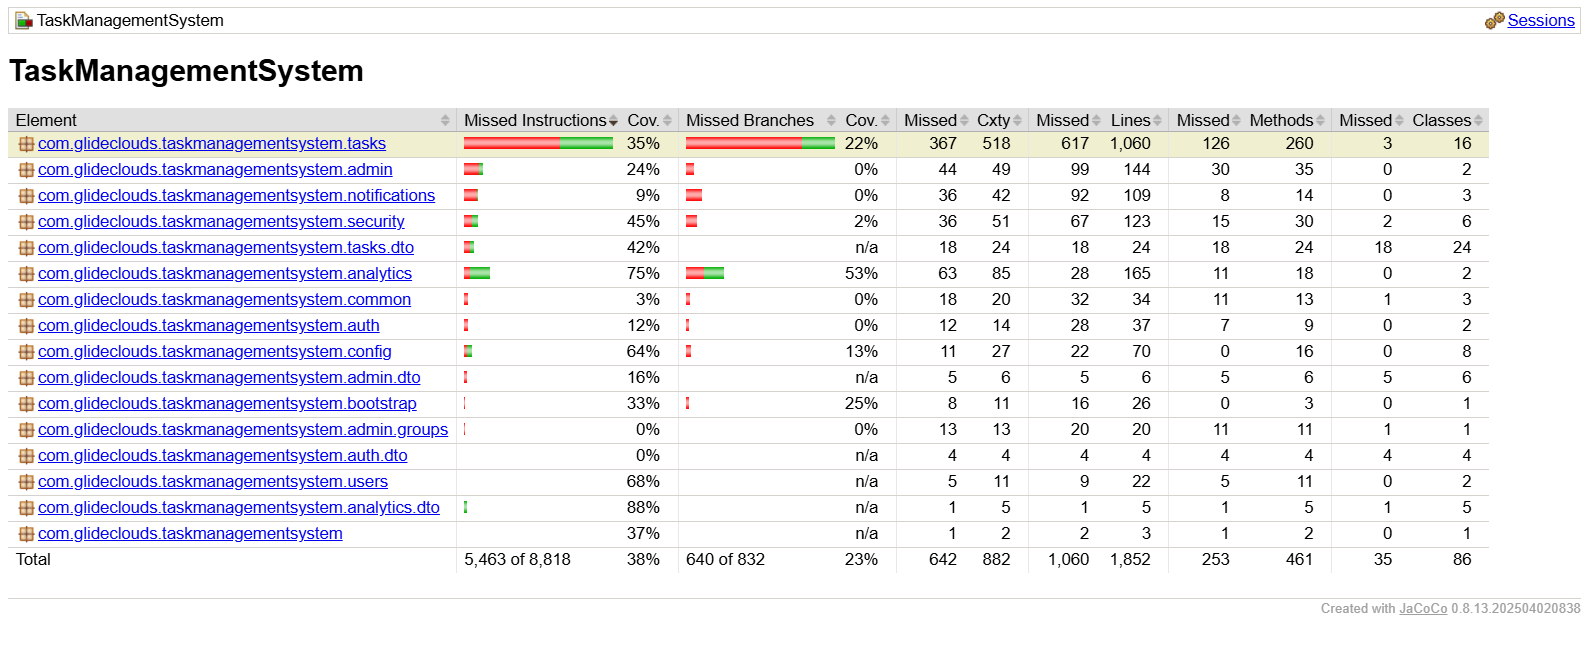
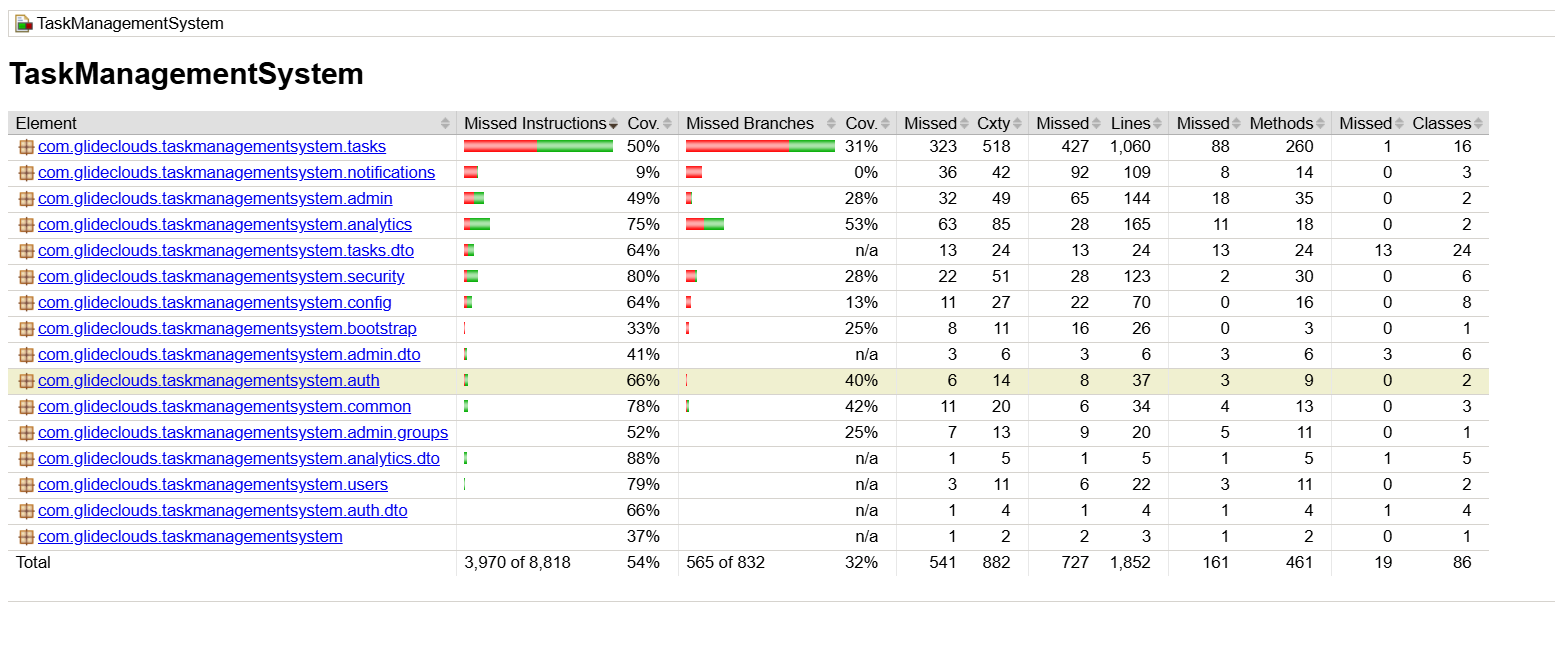
Swagger and Jacoco

diff --git a/Task Management System/TaskManagementSystem/backend/src/test/java/com/glideclouds/taskmanagementsystem/admin/AdminControllerTest.java b/Task Management System/TaskManagementSystem/backend/src/test/java/com/glideclouds/taskmanagementsystem/admin/AdminControllerTest.java
@@ -1,0 +1,85 @@
+package com.glideclouds.taskmanagementsystem.admin;
+
+import com.fasterxml.jackson.databind.ObjectMapper;
+import com.glideclouds.taskmanagementsystem.AbstractMongoIntegrationTest;
+import org.junit.jupiter.api.Test;
+import org.springframework.beans.factory.annotation.Autowired;
+import org.springframework.boot.test.autoconfigure.web.servlet.AutoConfigureMockMvc;
+import org.springframework.boot.test.context.SpringBootTest;
+import org.springframework.http.MediaType;
+import org.springframework.test.web.servlet.MockMvc;
+
+import java.time.LocalDate;
+import java.util.List;
+
+import static org.springframework.test.web.servlet.request.MockMvcRequestBuilders.get;
+import static org.springframework.test.web.servlet.request.MockMvcRequestBuilders.post;
+import static org.springframework.test.web.servlet.result.MockMvcResultMatchers.status;
+import static org.springframework.test.web.servlet.result.MockMvcResultMatchers.jsonPath;
+import static org.hamcrest.Matchers.hasSize;
+
+@SpringBootTest
+@AutoConfigureMockMvc
+class AdminControllerTest extends AbstractMongoIntegrationTest {
+
+    @Autowired MockMvc mvc;
+    @Autowired ObjectMapper objectMapper;
+
+    @Test
+    void adminEndpoints_requireAdminRole() throws Exception {
+        // 1. Regular user login
+        String userToken = registerAndLogin("regular@test.com", "Password123!");
+
+        // 2. Try to access admin endpoint
+        mvc.perform(get("/api/admin/users")
+                        .header("Authorization", "Bearer " + userToken))
+                .andExpect(status().isForbidden());
+    }
+
+    @Test
+    void listUsers_worksForAdmin() throws Exception {
+        // 1. Admin login (email starts with 'admin')
+        String adminToken = registerAndLogin("admin@test.com", "Password123!");
+
+        // 2. Access admin endpoint
+        mvc.perform(get("/api/admin/users")
+                        .header("Authorization", "Bearer " + adminToken))
+                .andExpect(status().isOk())
+                .andExpect(jsonPath("$", hasSize(1))); // Should contain at least the admin itself
+    }
+
+    @Test
+    void createGroup_works() throws Exception {
+        String adminToken = registerAndLogin("admin2@test.com", "Password123!");
+
+        // Create a user to add to group
+        registerAndLogin("member@test.com", "Password123!");
+
+        String groupBody = objectMapper.writeValueAsString(new CreateGroupRequest("Dev Team", List.of("member@test.com")));
+
+        mvc.perform(post("/api/admin/groups")
+                        .header("Authorization", "Bearer " + adminToken)
+                        .contentType(MediaType.APPLICATION_JSON)
+                        .content(groupBody))
+                .andExpect(status().isCreated())
+                .andExpect(jsonPath("$.name").value("Dev Team"));
+    }
+
+    private String registerAndLogin(String email, String password) throws Exception {
+        mvc.perform(post("/api/auth/register")
+                        .contentType(MediaType.APPLICATION_JSON)
+                        .content(objectMapper.writeValueAsString(new AuthBody(email, password))))
+                .andExpect(status().isCreated());
+
+        String loginJson = mvc.perform(post("/api/auth/login")
+                        .contentType(MediaType.APPLICATION_JSON)
+                        .content(objectMapper.writeValueAsString(new AuthBody(email, password))))
+                .andExpect(status().isOk())
+                .andReturn().getResponse().getContentAsString();
+
+        return objectMapper.readTree(loginJson).get("token").asText();
+    }
+
+    private record AuthBody(String email, String password) {}
+    private record CreateGroupRequest(String name, List<String> memberEmails) {}
+}

diff --git a/Task Management System/TaskManagementSystem/backend/src/test/java/com/glideclouds/taskmanagementsystem/auth/AuthControllerTest.java b/Task Management System/TaskManagementSystem/backend/src/test/java/com/glideclouds/taskmanagementsystem/auth/AuthControllerTest.java
@@ -37,5 +37,48 @@ class AuthControllerTest extends AbstractMongoIntegrationTest {
                 .andExpect(jsonPath("$.token").isString());
     }
 
+    @Test
+    void register_duplicateEmail_fails() throws Exception {
+        String email = "dup@example.com";
+        String password = "Password123!";
+        Body body = new Body(email, password);
+
+        // First registration
+        mvc.perform(post("/api/auth/register")
+                .contentType(MediaType.APPLICATION_JSON)
+                .content(objectMapper.writeValueAsString(body)))
+                .andExpect(status().isCreated());
+
+        // duplicate
+        mvc.perform(post("/api/auth/register")
+                .contentType(MediaType.APPLICATION_JSON)
+                .content(objectMapper.writeValueAsString(body)))
+                .andExpect(status().isConflict());
+    }
+
+    @Test
+    void login_wrongPassword_fails() throws Exception {
+        String email = "wrongpass@example.com";
+        String password = "Password123!";
+        
+        mvc.perform(post("/api/auth/register")
+                .contentType(MediaType.APPLICATION_JSON)
+                .content(objectMapper.writeValueAsString(new Body(email, password))))
+                .andExpect(status().isCreated());
+
+        mvc.perform(post("/api/auth/login")
+                .contentType(MediaType.APPLICATION_JSON)
+                .content(objectMapper.writeValueAsString(new Body(email, "WrongOne!"))))
+                .andExpect(status().isUnauthorized());
+    }
+
+    @Test
+    void login_nonExistentUser_fails() throws Exception {
+         mvc.perform(post("/api/auth/login")
+                .contentType(MediaType.APPLICATION_JSON)
+                .content(objectMapper.writeValueAsString(new Body("ghost@example.com", "anypass"))))
+                .andExpect(status().isUnauthorized());
+    }
+
     private record Body(String email, String password) {}
 }

diff --git a/Task Management System/TaskManagementSystem/backend/src/test/java/com/glideclouds/taskmanagementsystem/tasks/TaskControllerTest.java b/Task Management System/TaskManagementSystem/backend/src/test/java/com/glideclouds/taskmanagementsystem/tasks/TaskControllerTest.java
@@ -65,9 +65,31 @@ class TaskControllerTest extends AbstractMongoIntegrationTest {
                 .andExpect(status().isOk());
     }
 
+    @Test
+    void createTask_emptyTitle_fails() throws Exception {
+        String token = registerAndLogin("val@test.com", "Pass123!");
+        String body = objectMapper.writeValueAsString(new CreateBody("", "desc", "MEDIUM")); // empty title
+
+        mvc.perform(post("/api/tasks")
+                .header("Authorization", "Bearer " + token)
+                .contentType(MediaType.APPLICATION_JSON)
+                .content(body))
+                .andExpect(status().isBadRequest());
+    }
+
+    @Test
+    void updateTask_missingId_fails() throws Exception {
+        String token = registerAndLogin("missing@test.com", "Pass123!");
+        mvc.perform(get("/api/tasks/non-existent-id")
+                .header("Authorization", "Bearer " + token))
+                .andExpect(status().isNotFound());
+    }
+
     private String registerAndLogin() throws Exception {
-        String email = "user2@example.com";
-        String password = "Password123!";
+        return registerAndLogin("user2@example.com", "Password123!");
+    }
+
+    private String registerAndLogin(String email, String password) throws Exception {
 
         mvc.perform(post("/api/auth/register")
                         .contentType(MediaType.APPLICATION_JSON)

diff --git a/Task Management System/TaskManagementSystem/backend/src/test/java/com/glideclouds/taskmanagementsystem/AbstractMongoIntegrationTest.java b/Task Management System/TaskManagementSystem/backend/src/test/java/com/glideclouds/taskmanagementsystem/AbstractMongoIntegrationTest.java
@@ -6,14 +6,22 @@ import org.testcontainers.containers.MongoDBContainer;
 import org.testcontainers.junit.jupiter.Container;
 import org.testcontainers.junit.jupiter.Testcontainers;
 
-@Testcontainers(disabledWithoutDocker = true)
+// @Testcontainers (Removed to use local docker-compose instance)
 public abstract class AbstractMongoIntegrationTest {
 
-    @Container
-    static MongoDBContainer mongo = new MongoDBContainer("mongo:7");
-
+    // Connect to the local MongoDB running via docker-compose (port 27017)
+    // Use a specific test database 'tm_test_db' to avoid clashing with dev data
     @DynamicPropertySource
     static void props(DynamicPropertyRegistry registry) {
-        registry.add("spring.data.mongodb.uri", mongo::getReplicaSetUrl);
+        registry.add("spring.data.mongodb.uri", () -> "mongodb://localhost:27017/tm_test_db");
+    }
+
+    @org.springframework.beans.factory.annotation.Autowired
+    private org.springframework.data.mongodb.core.MongoTemplate mongoTemplate;
+
+    @org.junit.jupiter.api.BeforeEach
+    void cleanup() {
+        // Clean the database before each test to ensure isolation
+        mongoTemplate.getDb().drop();
     }
 }
